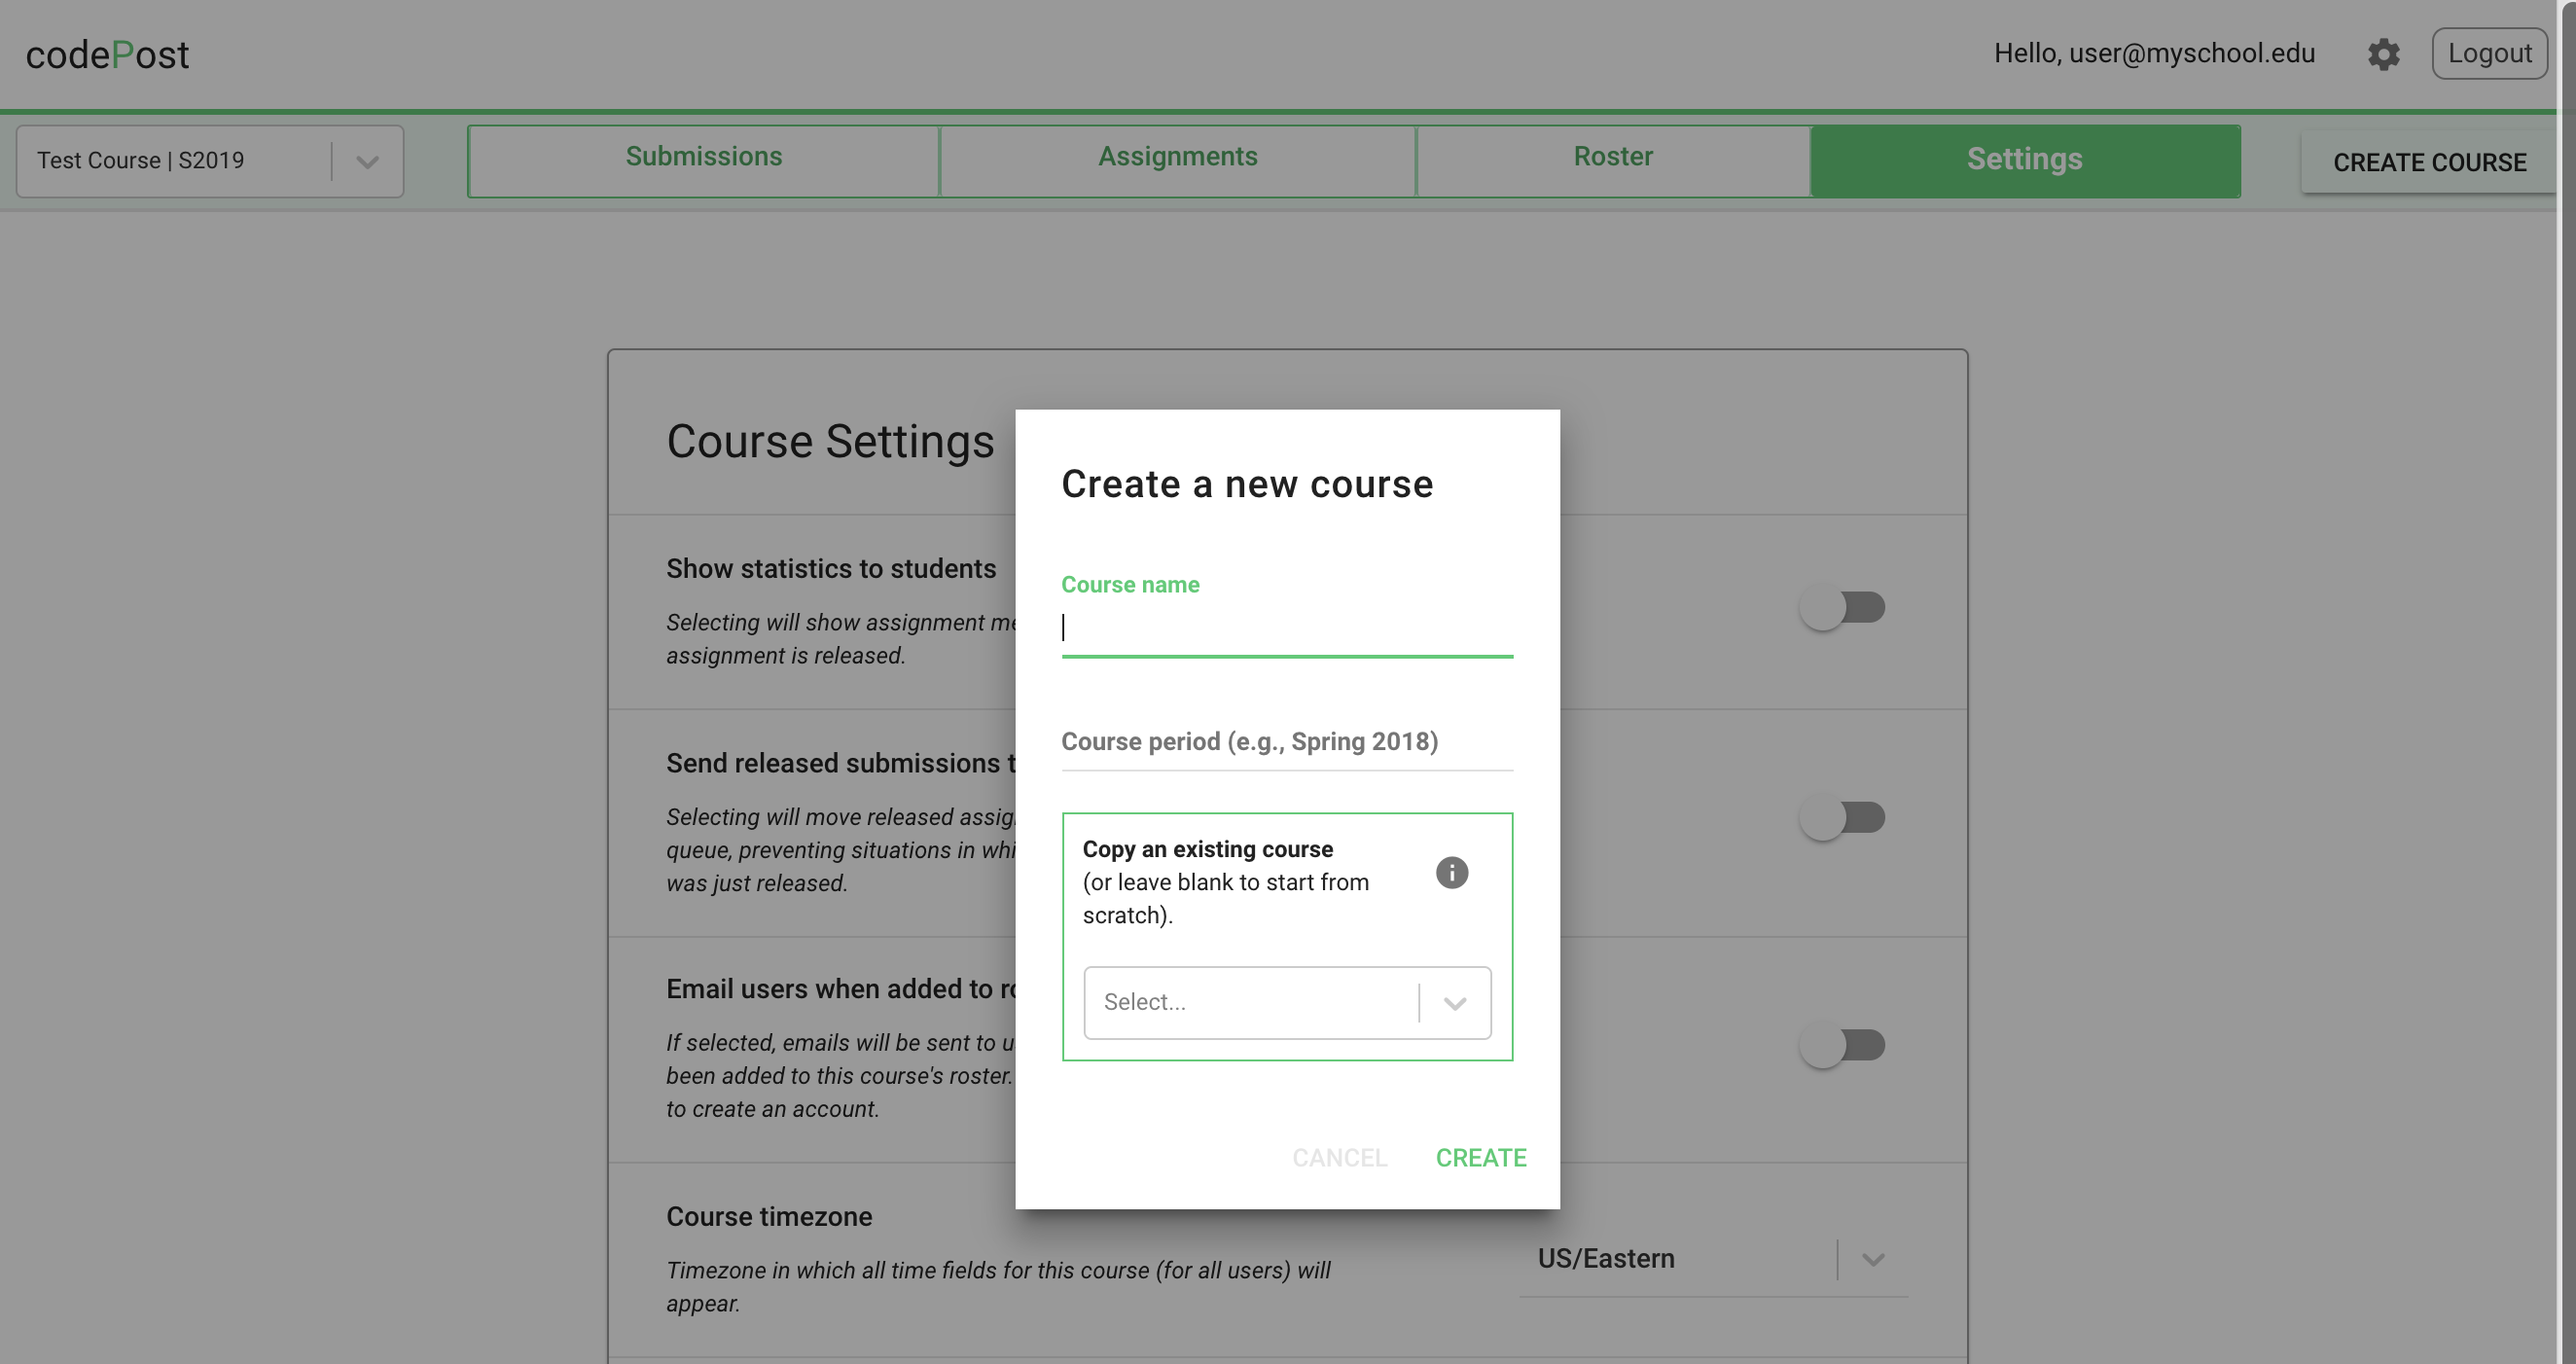
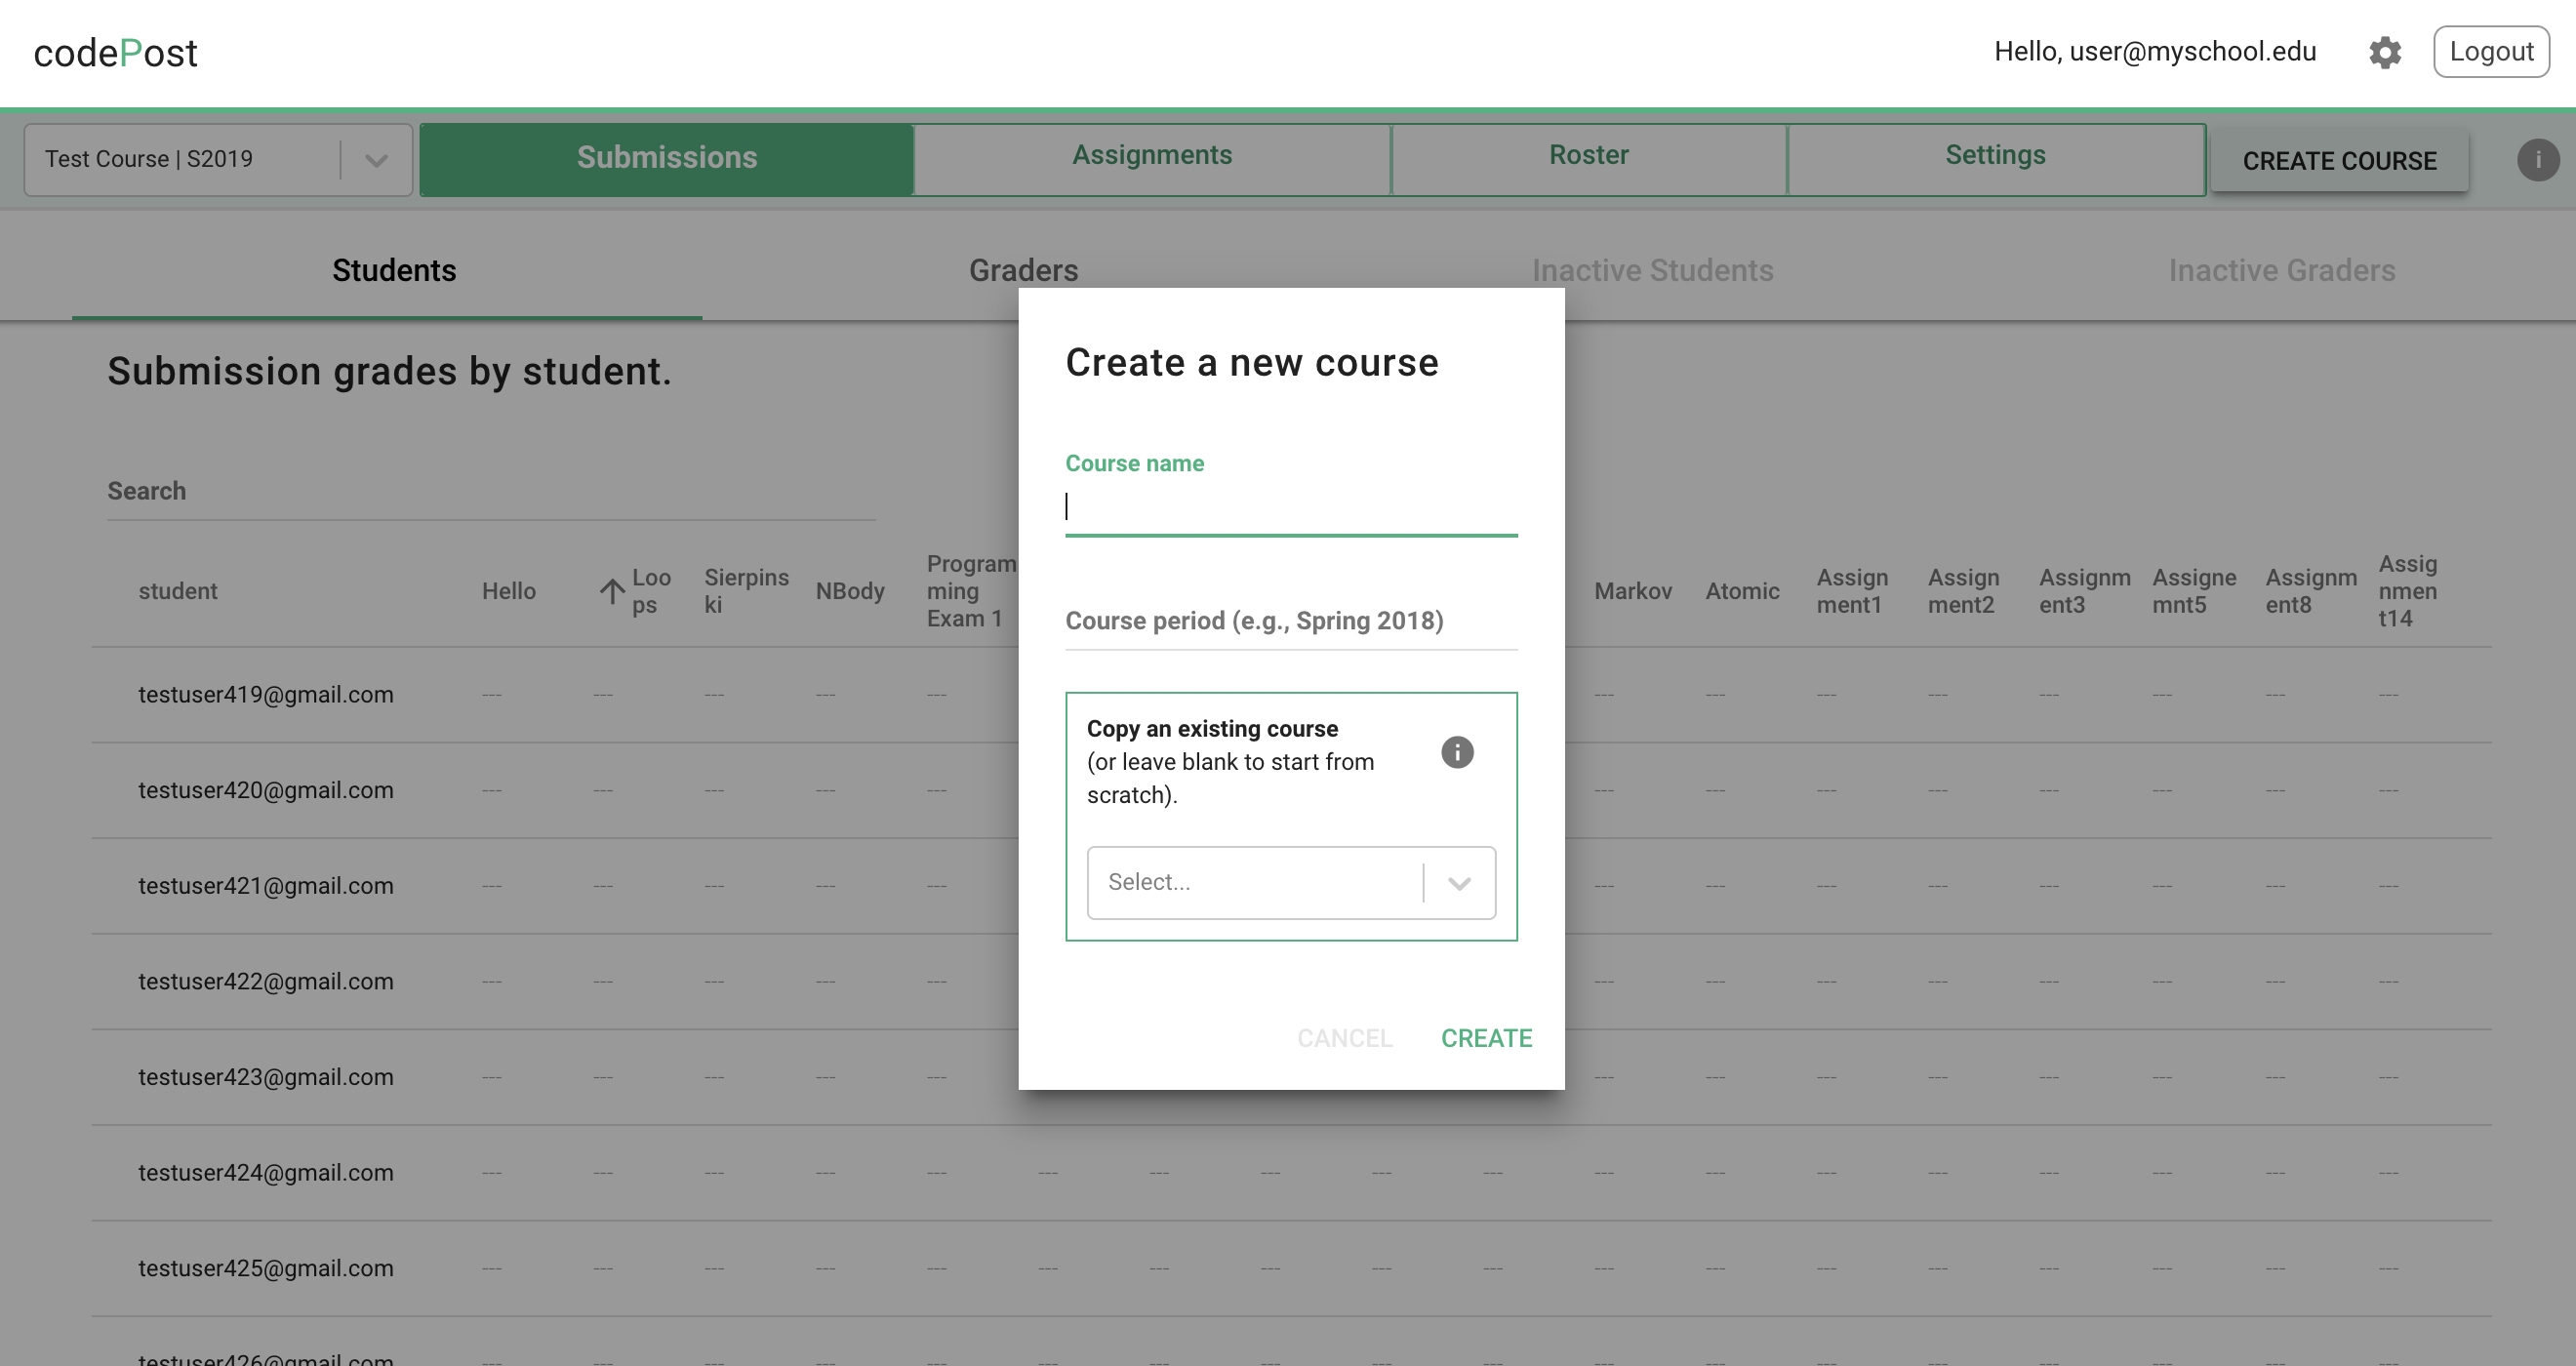
carousel images and edits

diff --git a/src/components/Utils/ModalCarousel.tsx b/src/components/Utils/ModalCarousel.tsx
@@ -1,9 +1,10 @@
 import * as React from 'react';
 import { Button } from 'react-md';
+import { Link } from 'react-router-dom';
 
 interface ISlide {
   imgLink: string;
-  text: string;
+  text: string | any;
 }
 
 interface IProps {
@@ -121,43 +122,45 @@ class ModalCarousel extends React.Component<IProps, IState> {
 
 const adminCarouselContent = [
   {
-    imgLink: require('../../img/Admin-onboarding/Course-Selector.png'),
-    text: 'Get started by choosing a course to view.',
+    imgLink: require('../../img/Admin-onboarding/CreateCourse.png'),
+    text: 'Get started by creating a course. You can also copy assignments from an old one to save time.',
   },
   {
-    imgLink: require('../../img/Admin-onboarding/Submissions-Student.png'),
-    text: 'View all submissions by student and grader.',
+    imgLink: require('../../img/Admin-onboarding/Roster-Student.png'),
+    text:
+      'Upload your roster to create students, graders, and admins. \
+      Add yourself as a grader if you’d like to grade submissions yourself.',
   },
   {
-    imgLink: require('../../img/Admin-onboarding/Submissions-Student-DoubleClick.png'),
-    text: 'Double click on any student or grader to get more details about his/her submissions.',
+    imgLink: require('../../img/Admin-onboarding/Create-Assignment.png'),
+    text: 'Create your first assignment.',
   },
   {
-    imgLink: require('../../img/Admin-onboarding/Assignments.png'),
+    imgLink: require('../../img/Admin-onboarding/Assignment-Rubric.png'),
+    text:
+      'Create a rubric. Graders will use the rubric to make comments on student work, as well as apply deductions. \
+      You can track the frequency with which rubric items are applied here, as well.',
+  },
+  {
+    imgLink: require('../../img/Admin-onboarding/Submissions-Overview.png'),
+    text: 'View submissions by student and grader.',
+  },
+  {
+    imgLink: require('../../img/Admin-onboarding/Assignments--Drawer.png'),
     text: 'Keep track of all assignments, including real-time data on statistics.',
   },
   {
-    imgLink: require('../../img/Admin-onboarding/Assignments-Rubric.png'),
-    text: 'Maintain standard assignment rubrics, to be used as a scoring guideline by graders.',
-  },
-  {
-    imgLink: require('../../img/Admin-onboarding/Roster-Students.png'),
-    text: 'Manage the course roster of students, graders, administrators, and sections.',
-  },
-  {
-    imgLink: require('../../img/Admin-onboarding/Roster-Sections.png'),
-    text: 'Manage grader privileges, such as the ability to manage all students in a section.',
-  },
-  {
-    imgLink: require('../../img/Admin-onboarding/CreateCourse.png'),
-    text: 'Replicate new courses each semester from historical courses, copying all assignments and rubrics.',
-  },
-  {
     imgLink: require('../../img/Admin-onboarding/Api-Docs.png'),
-    text:
-      "Write scripts to interact with codePost's api for complete course control. \
-      See the documentation at https://docs.codepost.io. \
-      A unique API key is provided in user settings. ",
+    text: (
+      <div>
+        Check out the{' '}
+        <a href="http://docs.codepost.io" target="_blank">
+          codePost API{' '}
+        </a>
+        to start building powerful scripts and integrations. \ Your unique API key can be accessed from your{' '}
+        <Link to={'/settings'}>settings</Link> page
+      </div>
+    ),
   },
 ];
 export { ModalCarousel, adminCarouselContent };

diff --git a/src/styles/components/carousel.scss b/src/styles/components/carousel.scss
@@ -115,6 +115,22 @@ $container-border-radius: 8px;
       color: white;
       flex-grow: 1;
       border-radius: 0px 0px$container-border-radius $container-border-radius;
+
+      a {
+        color: $light-grey;
+      }
+      a:hover {
+        text-decoration: none;
+        color: $light-grey;
+      }
+      a:active {
+        text-decoration: none;
+        color: $light-grey;
+      }
+      a:focus {
+        text-decoration: none;
+        color: $light-grey;
+      }
     }
   }
 }